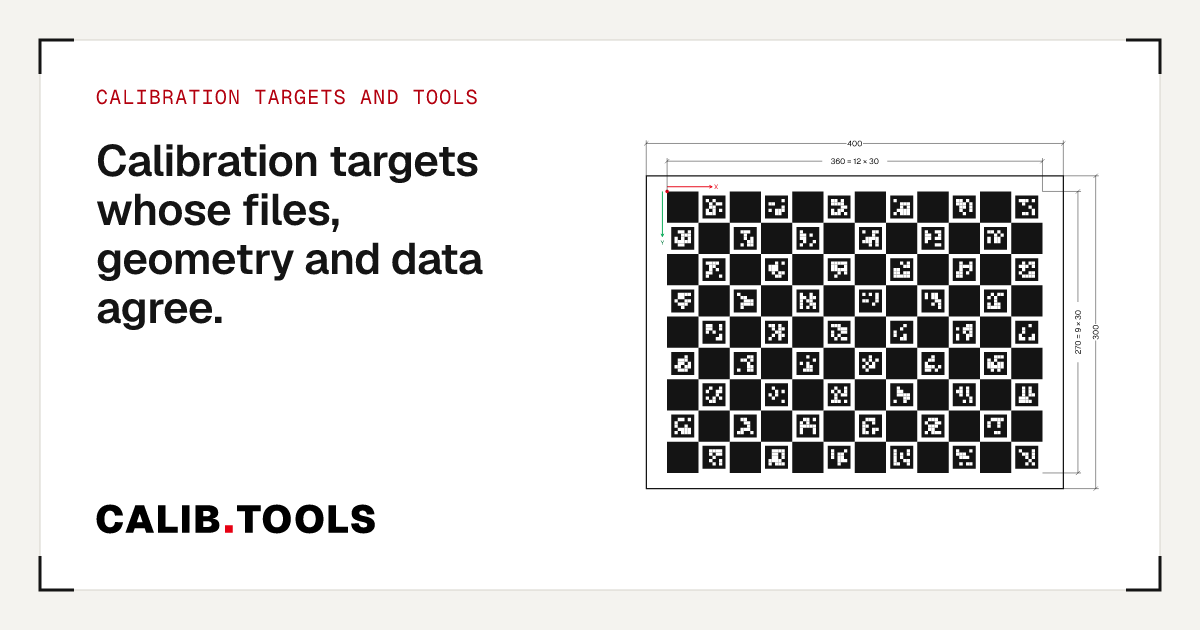
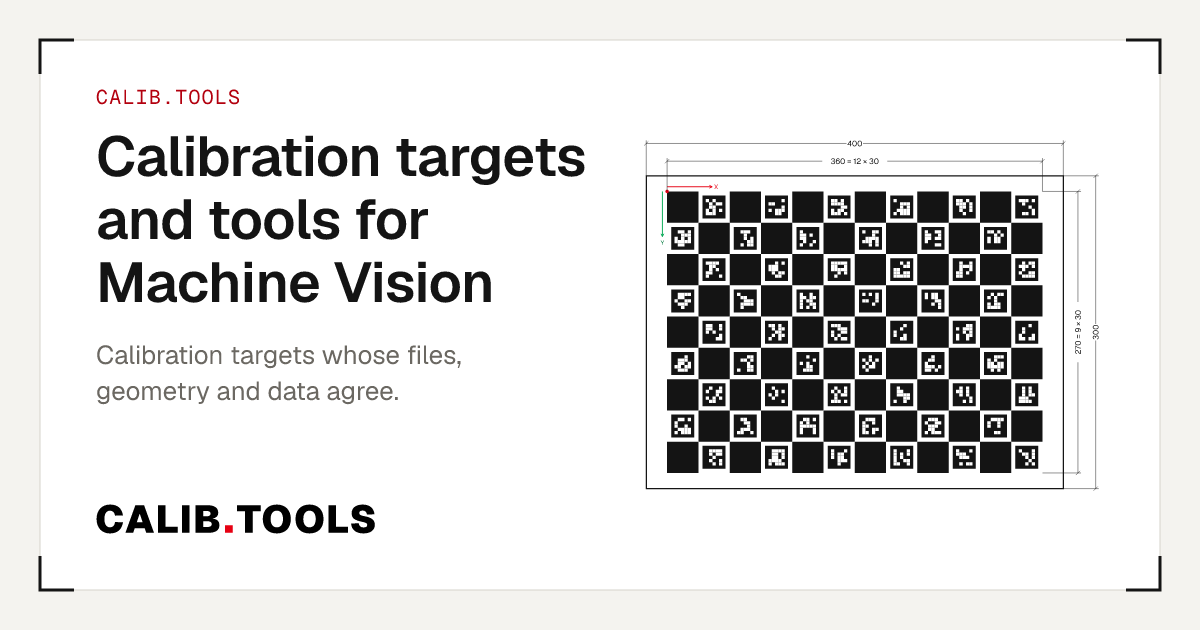
Home page headline and title: Calibration targets and tools for Machine Vision
Owner decision. The tagline ("…whose files, geometry and data agree") moves to the
line under the headline and stays the organization slogan and the description.
The home page title carries no brand suffix: with it the title would be 62
characters, over the limit of 60.

Claude-Session: https://claude.ai/code/session_01Aqcesjts61K1qjNG4Q7EMj

Changed region(s): [[0.0617, 0.2111, 0.4933, 0.6333], [0.1233, 0.1206, 0.4008, 0.181]]

diff --git a/src/lib/claims.ts b/src/lib/claims.ts
@@ -72,8 +72,15 @@ export const CERAMIC_CTE_UM_PER_M_K = 7.2;
 export const INSPECTION_CLAIM_SHORT = 'Measured before it ships';
 
 /**
- * Primary tagline (owner decision 2026-11-11) — home H1, home description, organization slogan.
- * Too long for a <title> (60 characters), so the home page title is a plain description.
+ * Home page headline and browser title (owner decision 2026-11-11): says what we sell and for whom.
+ * 48 characters; with the " · Calib.Tools" suffix it would pass the 60-character limit for a
+ * title, so the home page uses it without the suffix (search results show the site name anyway).
+ */
+export const HOME_HEADLINE = 'Calibration targets and tools for Machine Vision';
+
+/**
+ * Primary tagline (owner decision 2026-11-11) — the line under the home headline, the home
+ * description and the organization slogan. Says how we differ; HOME_HEADLINE says what we sell.
  * Replaces "Know your target to the micron", which only the ceramic targets could back up.
  */
 export const TAGLINE = 'Calibration targets whose files, geometry and data agree';

diff --git a/tests/e2e/redesign.spec.ts b/tests/e2e/redesign.spec.ts
@@ -260,12 +260,12 @@ test('brand-overlay.py config uses 185110 ceramic board, not 200150', () => {
 // Tagline and micron claim guard
 // ---------------------------------------------------------------------------
 
-test('Home H1 displays TAGLINE in correct form', async ({ page }) => {
+test('Home H1 displays the home headline', async ({ page }) => {
   await page.setViewportSize({ width: 1440, height: 900 });
   await page.goto('/');
   const h1 = page.locator('[data-hero-h1]');
   const text = (await h1.innerText())?.replace(/\s+/g, ' ').trim().toUpperCase();
-  expect(text).toBe('KNOW YOUR TARGET TO THE MICRON');
+  expect(text).toBe('CALIBRATION TARGETS AND TOOLS FOR MACHINE VISION');
 });
 
 test('Composite product page does not contain "micron"', async ({ page }) => {

diff --git a/scripts/generate-placeholders.ts b/scripts/generate-placeholders.ts
@@ -27,7 +27,7 @@ import {
   WORDMARK_VB,
 } from '../src/lib/exportBrand';
 import { ogSvg } from '../src/lib/ogImage';
-import { TAGLINE } from '../src/lib/claims';
+import { TAGLINE, HOME_HEADLINE } from '../src/lib/claims';
 import { drawingForPartNumber, representativePartNumber } from '../src/lib/boardDrawing';
 import { caltabGeometry, caltabSvg } from '../src/lib/halconCaltab';
 
@@ -38,8 +38,9 @@ const ROOT = resolve('public');
 mkdirSync(resolve(ROOT, 'og'), { recursive: true });
 
 const defaultOgSvg = ogSvg({
-  label: 'Calibration targets and tools',
-  title: `${TAGLINE}.`,
+  label: 'Camera calibration',
+  title: HOME_HEADLINE,
+  sub: `${TAGLINE}.`,
   drawing: drawingForPartNumber('CT-CHA-P-400X300-D5'),
 });
 

diff --git a/src/lib/brand-statements.test.ts b/src/lib/brand-statements.test.ts
@@ -58,3 +58,11 @@ describe('brand statements', () => {
     expect(text).toContain(`"slogan":"${TAGLINE}"`);
   });
 });
+
+describe('home headline', () => {
+  it('fits a browser title on its own', async () => {
+    const { HOME_HEADLINE } = await import('./claims');
+    expect(HOME_HEADLINE).toBe('Calibration targets and tools for Machine Vision');
+    expect(HOME_HEADLINE.length).toBeLessThanOrEqual(60);
+  });
+});
